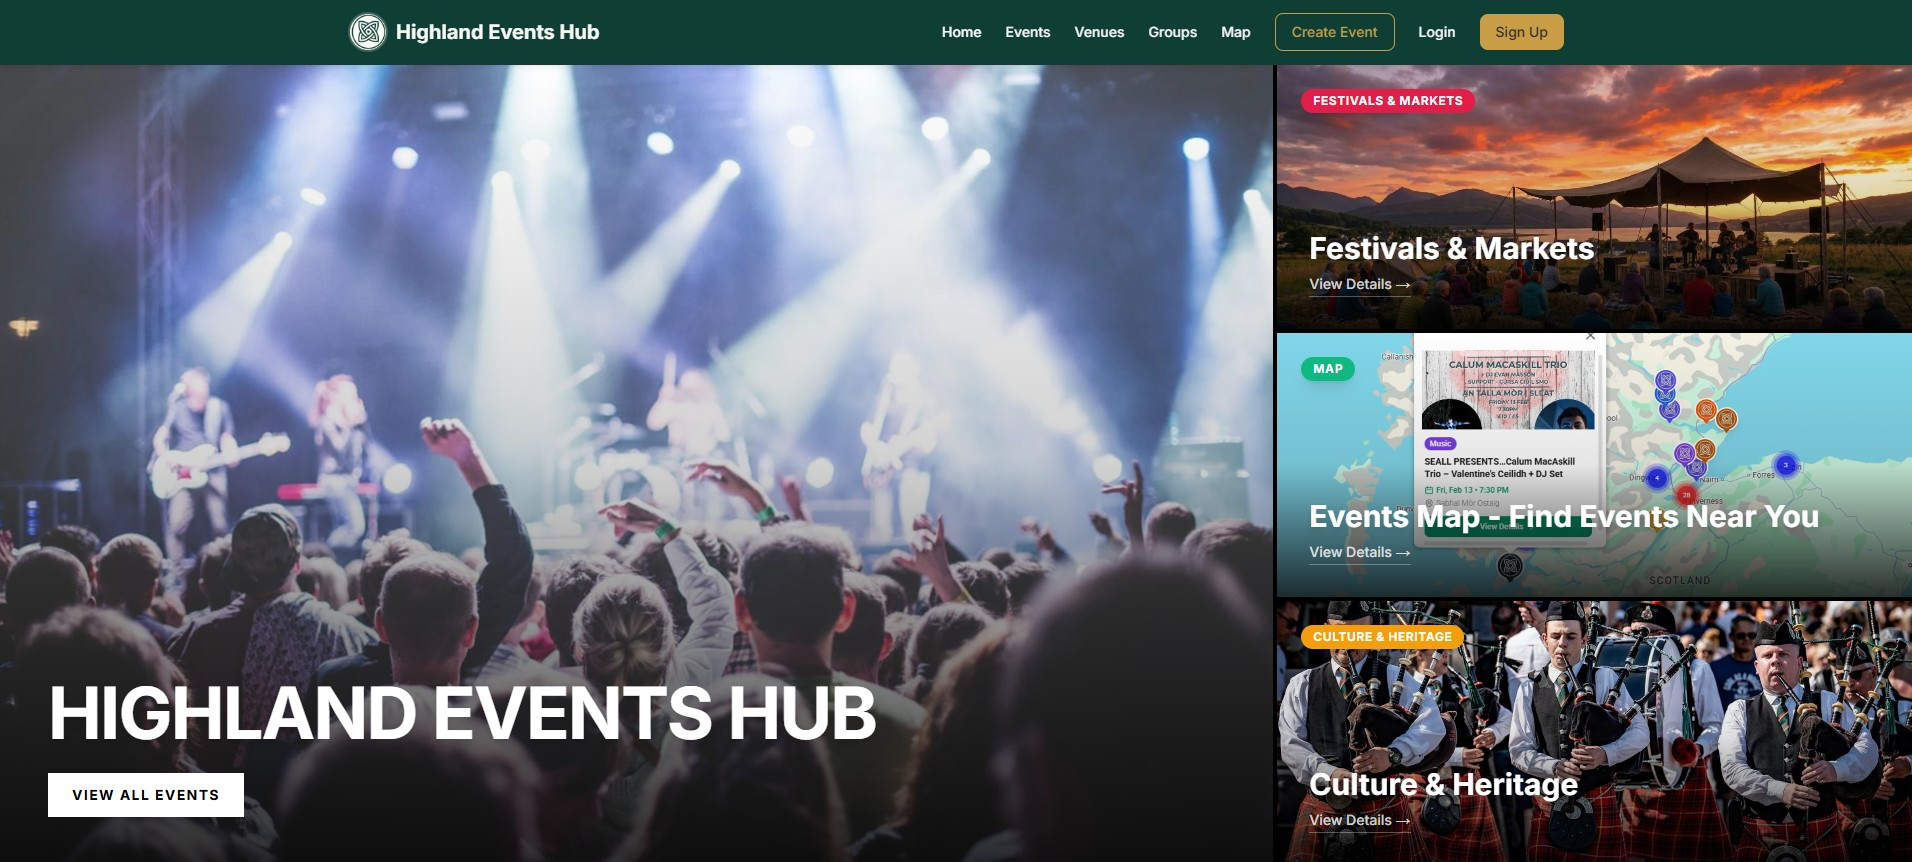
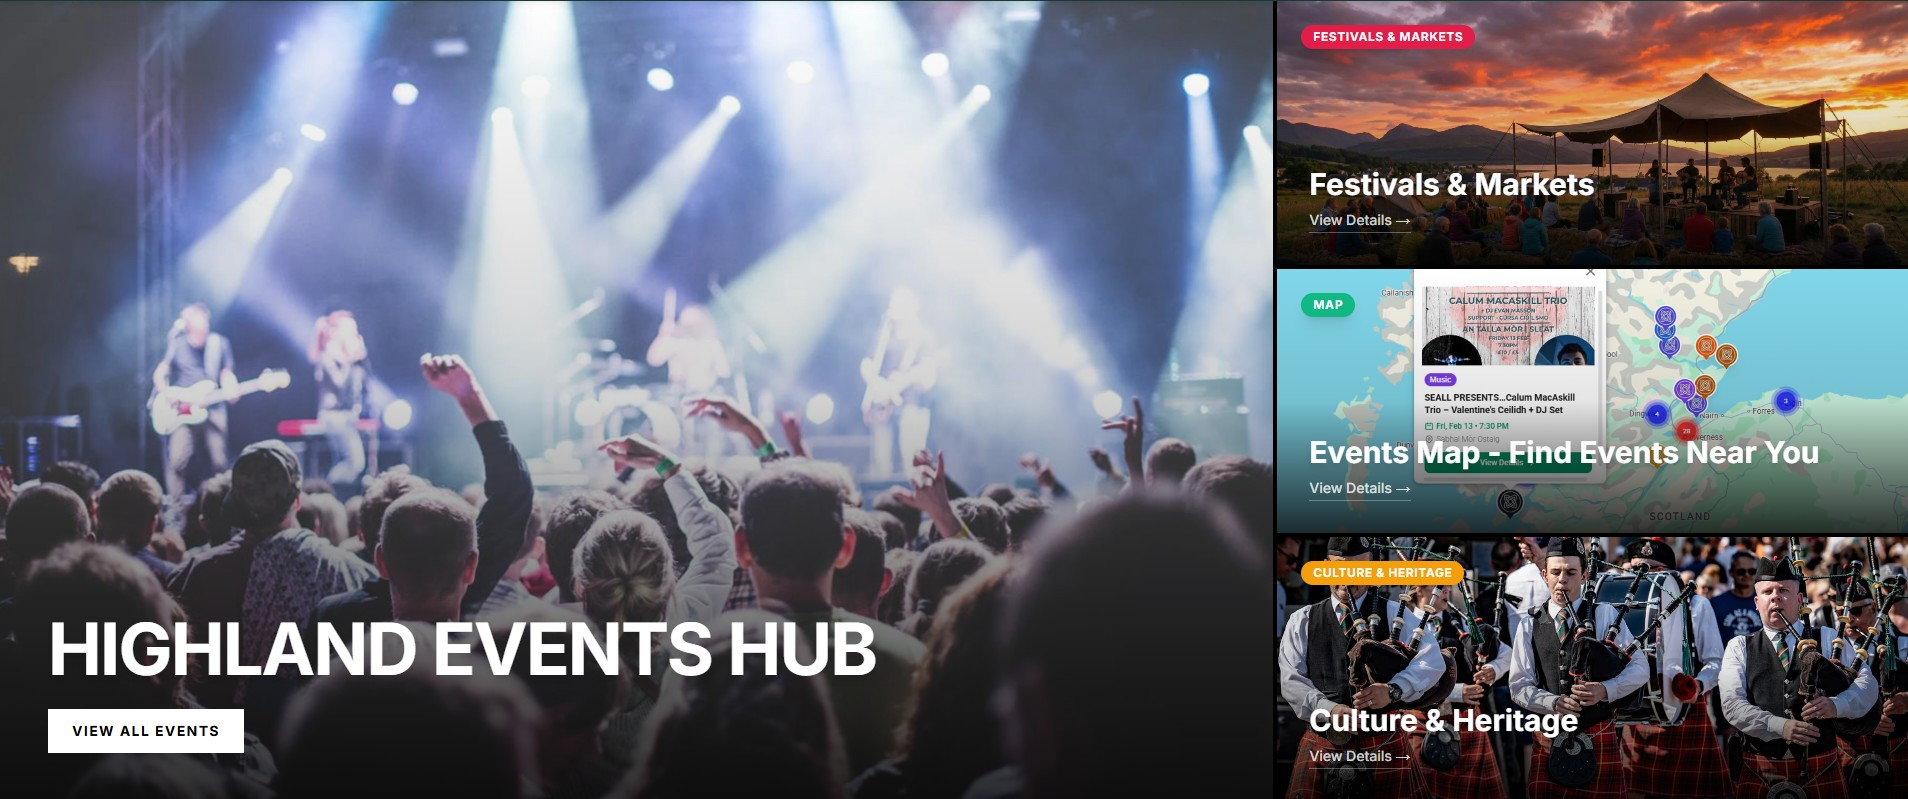
Fix: Environment config, SQLite migrations, and Tiptap hydration

diff --git a/frontend/src/lib/api.ts b/frontend/src/lib/api.ts
@@ -71,8 +71,7 @@ import type {
 // CONFIGURATION
 // ============================================================
 
-const API_BASE_URL = process.env.NEXT_PUBLIC_API_URL || 'http://127.0.0.1:8003';
-
+const API_BASE_URL = process.env.NEXT_PUBLIC_API_URL || 'http://localhost:8000';
 // ============================================================
 // HELPER FUNCTIONS
 // ============================================================

diff --git a/frontend/src/components/common/RichTextEditor.tsx b/frontend/src/components/common/RichTextEditor.tsx
@@ -50,6 +50,7 @@ export default function RichTextEditor({
         onUpdate: ({ editor }) => {
             onChange(editor.getHTML());
         },
+        immediatelyRender: false,
     });
 
     // Sync external value changes

diff --git a/backend/app/main.py b/backend/app/main.py
@@ -77,69 +77,72 @@ async def lifespan(app: FastAPI):
         from app.core.database import get_session
         
         # We put inline migrations in a separate try block to avoid blocking valid startup
-        try:
-            with next(get_session()) as session:
-                 # Add website_url column if it doesn't exist
-                session.exec(text("""
-                    ALTER TABLE events ADD COLUMN IF NOT EXISTS website_url VARCHAR(500);
-                """))
-                # Add is_all_day column if it doesn't exist
-                session.exec(text("""
-                    ALTER TABLE events ADD COLUMN IF NOT EXISTS is_all_day BOOLEAN DEFAULT FALSE;
-                """))
-                # Triptych Hero Migration
-                session.exec(text("""
-                    ALTER TABLE hero_slots ADD COLUMN IF NOT EXISTS image_override_left VARCHAR(500);
-                """))
-                session.exec(text("""
-                    ALTER TABLE hero_slots ADD COLUMN IF NOT EXISTS image_override_right VARCHAR(500);
-                """))
-                # Emergency Migration: Add is_dismissed to venues
-                session.exec(text("""
-                    ALTER TABLE venues ADD COLUMN IF NOT EXISTS is_dismissed BOOLEAN DEFAULT FALSE;
-                """))
-                
-                # Hero 4-Slot Magazine Migration
-                session.exec(text("""
-                    ALTER TABLE hero_slots ADD COLUMN IF NOT EXISTS link VARCHAR(500);
-                """))
-                session.exec(text("""
-                    ALTER TABLE hero_slots ADD COLUMN IF NOT EXISTS badge_text VARCHAR(50);
-                """))
-                session.exec(text("""
-                    ALTER TABLE hero_slots ADD COLUMN IF NOT EXISTS badge_color VARCHAR(50) DEFAULT 'emerald';
-                """))
-                
-                # Initialize 4 Fixed Slots (0-3)
-                for i in range(4):
-                    # Check directly via SQL to avoid model mismatches during migration
-                    result = session.exec(text(f"SELECT id FROM hero_slots WHERE position = {i}")).first()
-                    if not result:
-                        session.exec(text(f"""
-                            INSERT INTO hero_slots (position, type, is_active, badge_color, overlay_style)
-                            VALUES ({i}, 'spotlight_event', false, 'emerald', 'dark')
-                        """))
-                        logger.info(f"Initialized Hero Slot position {i}")
-    
-                # Backfill created_at for Magazine Feed (Just Added)
-                # Ensure all events have a created_at date for sorting
-                # Backfill created_at for Magazine Feed (Just Added)
-                # Ensure all events have a created_at date for sorting.
-                # FIX: Clamp to NOW() to prevent future events from burying new creations.
-                session.exec(text("""
-                    UPDATE events 
-                    SET created_at = CASE 
-                        WHEN created_at IS NULL THEN LEAST(date_start, NOW())
-                        WHEN created_at > NOW() THEN NOW()
-                        ELSE created_at
-                    END
-                    WHERE created_at IS NULL OR created_at > NOW();
-                """))
-                
-                session.commit()
-                logger.info("Inline Migrations complete")
-        except Exception as e:
-             logger.warning(f"Inline Migration skipped/failed (non-critical): {e}")
+        if "sqlite" in settings.DATABASE_URL:
+            logger.info("Skipping Postgres-only inline migrations for SQLite")
+        else:
+            try:
+                with next(get_session()) as session:
+                     # Add website_url column if it doesn't exist
+                    session.exec(text("""
+                        ALTER TABLE events ADD COLUMN IF NOT EXISTS website_url VARCHAR(500);
+                    """))
+                    # Add is_all_day column if it doesn't exist
+                    session.exec(text("""
+                        ALTER TABLE events ADD COLUMN IF NOT EXISTS is_all_day BOOLEAN DEFAULT FALSE;
+                    """))
+                    # Triptych Hero Migration
+                    session.exec(text("""
+                        ALTER TABLE hero_slots ADD COLUMN IF NOT EXISTS image_override_left VARCHAR(500);
+                    """))
+                    session.exec(text("""
+                        ALTER TABLE hero_slots ADD COLUMN IF NOT EXISTS image_override_right VARCHAR(500);
+                    """))
+                    # Emergency Migration: Add is_dismissed to venues
+                    session.exec(text("""
+                        ALTER TABLE venues ADD COLUMN IF NOT EXISTS is_dismissed BOOLEAN DEFAULT FALSE;
+                    """))
+                    
+                    # Hero 4-Slot Magazine Migration
+                    session.exec(text("""
+                        ALTER TABLE hero_slots ADD COLUMN IF NOT EXISTS link VARCHAR(500);
+                    """))
+                    session.exec(text("""
+                        ALTER TABLE hero_slots ADD COLUMN IF NOT EXISTS badge_text VARCHAR(50);
+                    """))
+                    session.exec(text("""
+                        ALTER TABLE hero_slots ADD COLUMN IF NOT EXISTS badge_color VARCHAR(50) DEFAULT 'emerald';
+                    """))
+                    
+                    # Initialize 4 Fixed Slots (0-3)
+                    for i in range(4):
+                        # Check directly via SQL to avoid model mismatches during migration
+                        result = session.exec(text(f"SELECT id FROM hero_slots WHERE position = {i}")).first()
+                        if not result:
+                            session.exec(text(f"""
+                                INSERT INTO hero_slots (position, type, is_active, badge_color, overlay_style)
+                                VALUES ({i}, 'spotlight_event', false, 'emerald', 'dark')
+                            """))
+                            logger.info(f"Initialized Hero Slot position {i}")
+        
+                    # Backfill created_at for Magazine Feed (Just Added)
+                    # Ensure all events have a created_at date for sorting
+                    # Backfill created_at for Magazine Feed (Just Added)
+                    # Ensure all events have a created_at date for sorting.
+                    # FIX: Clamp to NOW() to prevent future events from burying new creations.
+                    session.exec(text("""
+                        UPDATE events 
+                        SET created_at = CASE 
+                            WHEN created_at IS NULL THEN LEAST(date_start, NOW())
+                            WHEN created_at > NOW() THEN NOW()
+                            ELSE created_at
+                        END
+                        WHERE created_at IS NULL OR created_at > NOW();
+                    """))
+                    
+                    session.commit()
+                    logger.info("Inline Migrations complete")
+            except Exception as e:
+                 logger.warning(f"Inline Migration skipped/failed (non-critical): {e}")
 
     except Exception as e:
         logger.error(f"Failed to initialize database (Tables/Migrations): {e}")
@@ -171,10 +174,17 @@ app.add_exception_handler(RateLimitExceeded, _rate_limit_exceeded_handler)
 app.add_middleware(SlowAPIMiddleware)
 
 # CORS middleware - MUST be added first to handle preflight requests
+# Default to robust production settings, but allow override
+BACKEND_CORS_ORIGINS = os.getenv(
+    "BACKEND_CORS_ORIGINS",
+    "http://localhost:3000,http://localhost:8000,https://www.highlandeventshub.co.uk,https://highlandeventshub.co.uk" 
+)
+
+origins = [origin.strip() for origin in BACKEND_CORS_ORIGINS.split(",")]
+
 app.add_middleware(
     CORSMiddleware,
-    # Combine settings.ALLOWED_ORIGINS with explicitly required production domains
-    allow_origins=settings.ALLOWED_ORIGINS + ["https://www.highlandeventshub.co.uk", "https://highlandeventshub.co.uk"],
+    allow_origins=origins,
     allow_credentials=True,
     allow_methods=["*"],
     allow_headers=["*"],

diff --git a/backend/app/core/database.py b/backend/app/core/database.py
@@ -33,6 +33,10 @@ engine = create_engine(
 def run_migrations():
     """Run any pending database migrations."""
     with Session(engine) as session:
+        if "sqlite" in settings.DATABASE_URL:
+            logger.info("Skipping Postgres-only migrations for SQLite")
+            return
+
         # Add is_active column to users table if it doesn't exist
         try:
             session.execute(text("""
